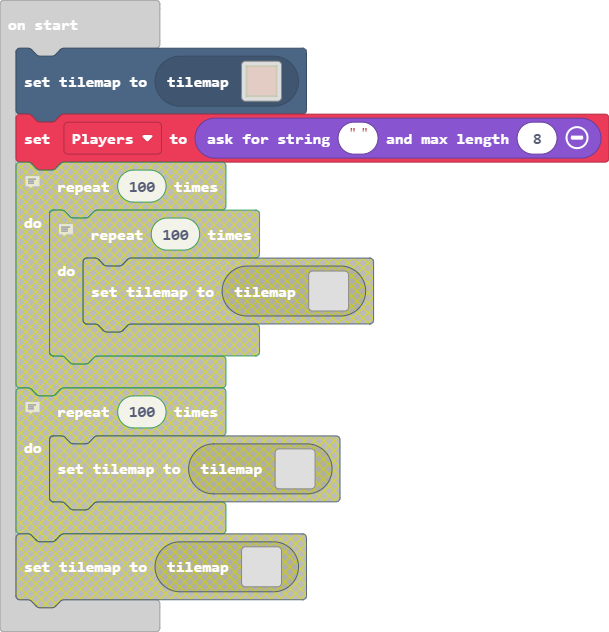
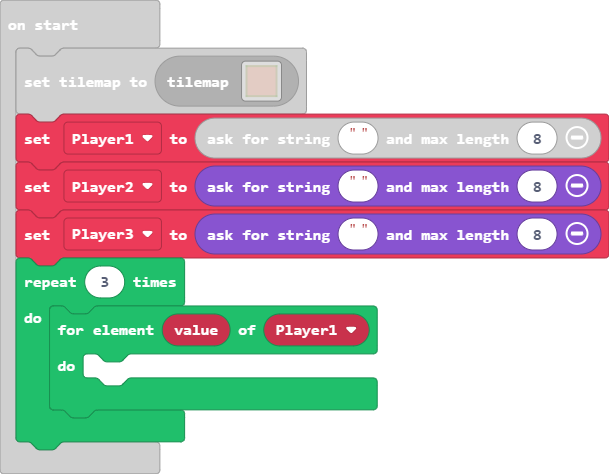
Update main.blocks, main.ts, images.g.jres, images.g.ts, tilemap.g.jres, tilemap.g.ts

diff --git a/tilemap.g.ts b/tilemap.g.ts
@@ -123,6 +123,63 @@ namespace myTiles {
 . . . . . . . . . . . . . . . . 
 . . . . . . . . . . . . . . . . 
 `, [myTiles.transparency16], TileScale.Sixteen);
+            case "level7":
+            case "level7":return tiles.createTilemap(hex`1000100000000000000000000000000000000000000000000000000000000000000000000000000000000000000000000000000000000000000000000000000000000000000000000000000000000000000000000000000000000000000000000000000000000000000000000000000000000000000000000000000000000000000000000000000000000000000000000000000000000000000000000000000000000000000000000000000000000000000000000000000000000000000000000000000000000000000000000000000000000000000000000000000000000000000000000000000000000000000000000000000000000000000000000000000000000000`, img`
+. . . . . . . . . . . . . . . . 
+. . . . . . . . . . . . . . . . 
+. . . . . . . . . . . . . . . . 
+. . . . . . . . . . . . . . . . 
+. . . . . . . . . . . . . . . . 
+. . . . . . . . . . . . . . . . 
+. . . . . . . . . . . . . . . . 
+. . . . . . . . . . . . . . . . 
+. . . . . . . . . . . . . . . . 
+. . . . . . . . . . . . . . . . 
+. . . . . . . . . . . . . . . . 
+. . . . . . . . . . . . . . . . 
+. . . . . . . . . . . . . . . . 
+. . . . . . . . . . . . . . . . 
+. . . . . . . . . . . . . . . . 
+. . . . . . . . . . . . . . . . 
+`, [myTiles.transparency16], TileScale.Sixteen);
+            case "level8":
+            case "level8":return tiles.createTilemap(hex`1000100000000000000000000000000000000000000000000000000000000000000000000000000000000000000000000000000000000000000000000000000000000000000000000000000000000000000000000000000000000000000000000000000000000000000000000000000000000000000000000000000000000000000000000000000000000000000000000000000000000000000000000000000000000000000000000000000000000000000000000000000000000000000000000000000000000000000000000000000000000000000000000000000000000000000000000000000000000000000000000000000000000000000000000000000000000000`, img`
+. . . . . . . . . . . . . . . . 
+. . . . . . . . . . . . . . . . 
+. . . . . . . . . . . . . . . . 
+. . . . . . . . . . . . . . . . 
+. . . . . . . . . . . . . . . . 
+. . . . . . . . . . . . . . . . 
+. . . . . . . . . . . . . . . . 
+. . . . . . . . . . . . . . . . 
+. . . . . . . . . . . . . . . . 
+. . . . . . . . . . . . . . . . 
+. . . . . . . . . . . . . . . . 
+. . . . . . . . . . . . . . . . 
+. . . . . . . . . . . . . . . . 
+. . . . . . . . . . . . . . . . 
+. . . . . . . . . . . . . . . . 
+. . . . . . . . . . . . . . . . 
+`, [myTiles.transparency16], TileScale.Sixteen);
+            case "level9":
+            case "level9":return tiles.createTilemap(hex`1000100000000000000000000000000000000000000000000000000000000000000000000000000000000000000000000000000000000000000000000000000000000000000000000000000000000000000000000000000000000000000000000000000000000000000000000000000000000000000000000000000000000000000000000000000000000000000000000000000000000000000000000000000000000000000000000000000000000000000000000000000000000000000000000000000000000000000000000000000000000000000000000000000000000000000000000000000000000000000000000000000000000000000000000000000000000000`, img`
+. . . . . . . . . . . . . . . . 
+. . . . . . . . . . . . . . . . 
+. . . . . . . . . . . . . . . . 
+. . . . . . . . . . . . . . . . 
+. . . . . . . . . . . . . . . . 
+. . . . . . . . . . . . . . . . 
+. . . . . . . . . . . . . . . . 
+. . . . . . . . . . . . . . . . 
+. . . . . . . . . . . . . . . . 
+. . . . . . . . . . . . . . . . 
+. . . . . . . . . . . . . . . . 
+. . . . . . . . . . . . . . . . 
+. . . . . . . . . . . . . . . . 
+. . . . . . . . . . . . . . . . 
+. . . . . . . . . . . . . . . . 
+. . . . . . . . . . . . . . . . 
+`, [myTiles.transparency16], TileScale.Sixteen);
         }
         return null;
     })

diff --git a/images.g.ts b/images.g.ts
@@ -60,25 +60,6 @@ namespace myImages {
 . . . . 3 3 3 . . . . . . . . . 
 . . . . . . 3 3 3 3 3 3 3 . . . 
 `;
-            case "image4":
-            case "myImage2":return img`
-. . 3 3 3 . . . . . . . . . . . 
-. 3 3 3 3 3 3 3 . . . . . . . . 
-. 3 . . . . . . 3 3 . . . . . . 
-. 3 3 . . . . . . 3 3 . . . . . 
-. 3 3 . . . . . . . 3 3 . . . . 
-. 3 . . . . . . . . . 3 . . . . 
-. 3 . . . . . . . . . 3 . . . . 
-. 3 . . . . . . . . 3 3 . . . . 
-. 3 . . . . . . . 3 3 . . . . . 
-. 3 . . . . . . . 3 3 . . . . . 
-. 3 . . . . . . . . 3 . . . . . 
-. 3 . . . . . . . . 3 . . . . . 
-. 3 . . . . . . . 3 3 . . . . . 
-. 3 . . . . . . . 3 . . . . . . 
-. 3 . 3 . . . . 3 3 . . . . . . 
-. 3 3 3 3 3 3 3 3 . . . . . . . 
-`;
         }
         return null;
     })

diff --git a/main.ts b/main.ts
@@ -1,2 +1,9 @@
 tiles.setCurrentTilemap(tilemap`bana`)
-let Players = game.askForString("", 8)
+let Player1 = game.askForString("", 8)
+let Player2 = game.askForString("", 8)
+let Player3 = game.askForString("", 8)
+for (let index = 0; index < 3; index++) {
+    for (let value of Player1) {
+    	
+    }
+}
